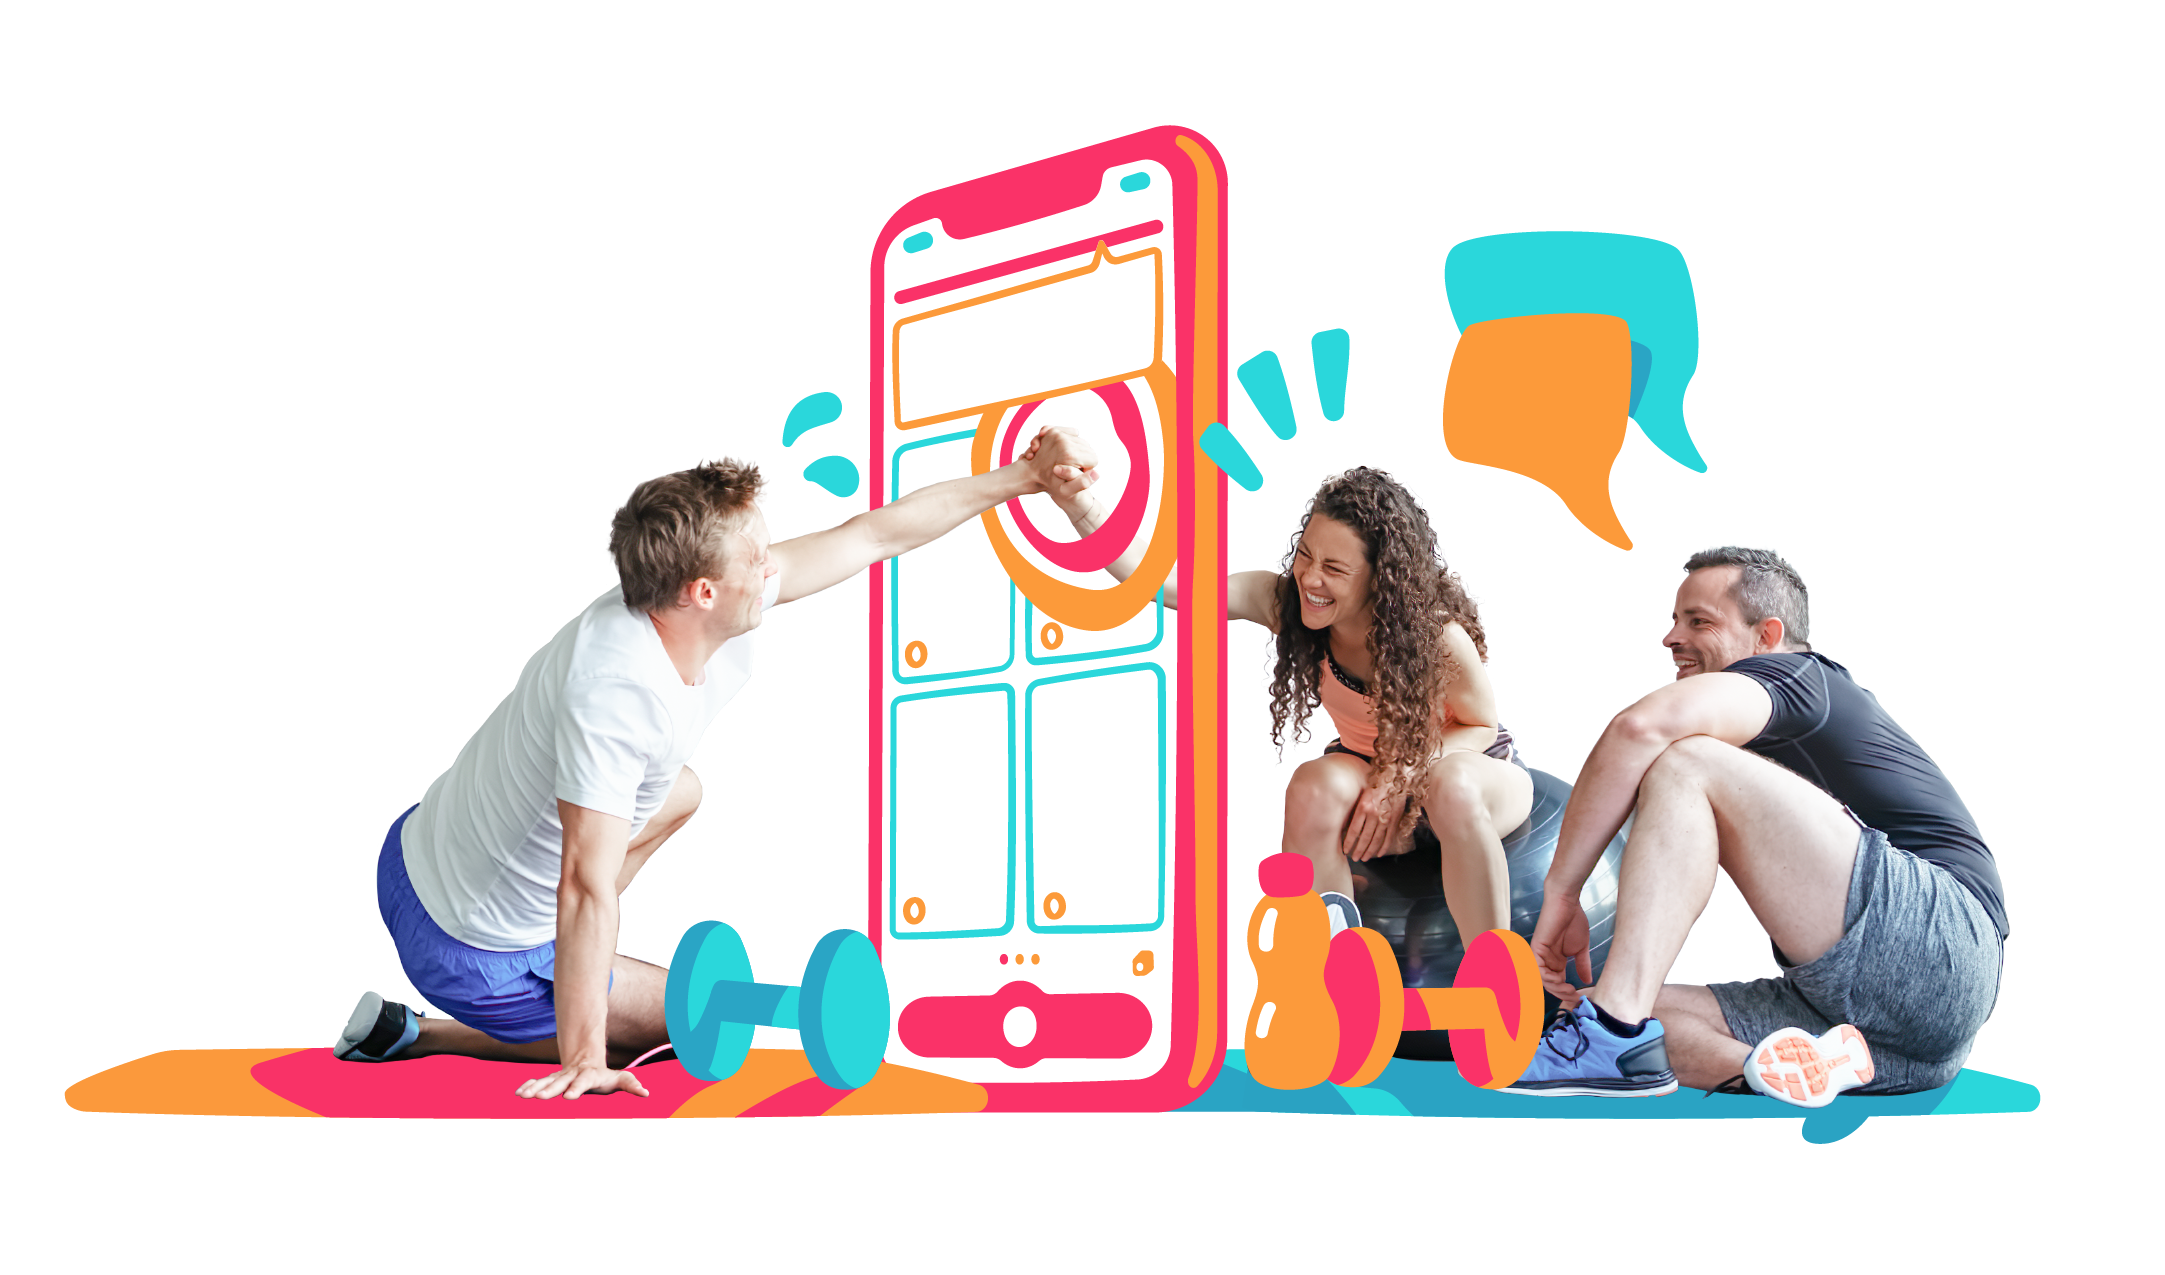
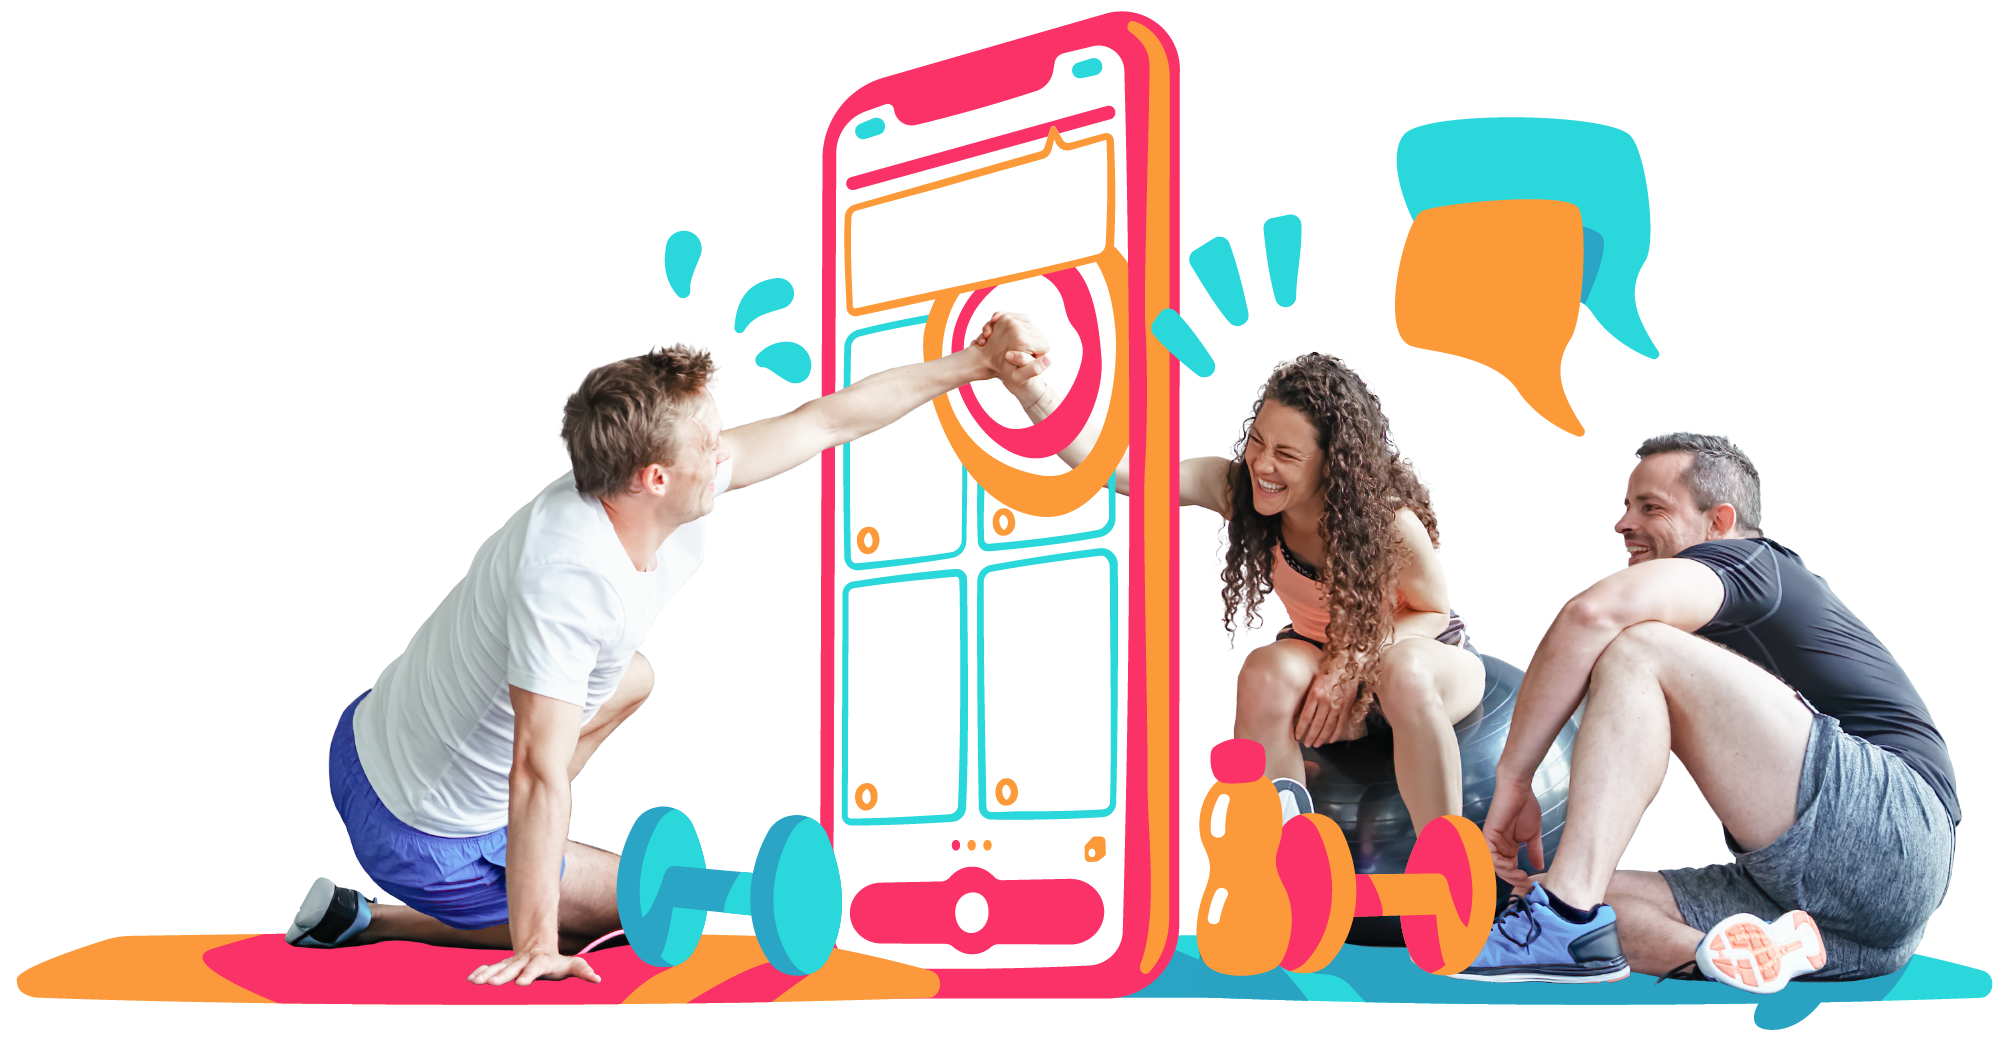
fixed jumbotron responsiveness

diff --git a/style.css b/style.css
@@ -71,17 +71,15 @@ p {
 /*JUMBOTRON*/
 .jumbotron .container{
     position: relative;
-    padding-bottom: 20vh;
+    height: 100%;
     vertical-align: middle;
-
-    margin: 
-    
 }
 .jumbotron {
     position: relative;
     background: none;
     margin: 0px 0 0px 0;
-    height: 100vh;
+    height: calc(100vh - 70px);
+    padding: 50px 0 40px 0;
     
 }
 .jumbotron h1 {
@@ -98,6 +96,7 @@ p {
     margin: 15px 0;
     cursor: pointer;
     transition: 0.3s;
+    background: white;
 }
 .app-download:hover {
     box-shadow: 0px 3px 12px 0px rgba(0,0,0,0.15);
@@ -107,29 +106,35 @@ p {
     box-shadow: inset 0px 3px 8px 0px rgba(0,0,0,0.1);
     background: white;
 }
-img.ill-main {
+div.ill-main {
+    background-image: url(assets/ill-main.png);
+    background-size: contain;
+    background-position: bottom;
+    background-repeat: no-repeat;
+    background-color: white;
     position: absolute;
     z-index:-1;
-    bottom: -230px;
     height: 100%;
-    right: -270px;
+    right: -46%;
+    width: 150%;
 }
 @media (min-width: 768px) {
-    img.ill-main {
-    display:block;
-    height: 105%;
-    right: -400px;
+    div.ill-main {
+    right: -15%;
+    width: 110%;
+    
 }}
 @media (min-width: 992px) {
-    img.ill-main {
-    height: 110%;
-    right: -230px;
+    div.ill-main {
+    right: -100px;
+    width: 100%;
+    
 }}
 @media (min-width: 1200px) {
-    img.ill-main {
-    height: 120%;
-    right: -220px;
-    bottom: -200px;
+    div.ill-main {
+    right: -100px;
+    min-width: 100%;
+    width: 130vh;
 }}
 
 /*HIGHLIGHTS*/

diff --git a/index.html b/index.html
@@ -40,7 +40,7 @@
     </nav>
     <div class="jumbotron">
         <div class="container">
-            <img class="ill-main" src="assets/ill-main.png">
+            <div class="ill-main"></div>
             <h1>Come in<br>palestra,<br>con i tuoi amici</h1>
             <p>Gymboo è la prima applicazione<br>che connette sportivi ed istruttori<br>a distanza sullo stesso canale.</p> 
             <img class="app-download" src="assets/badge-playstore.svg" height="60">
